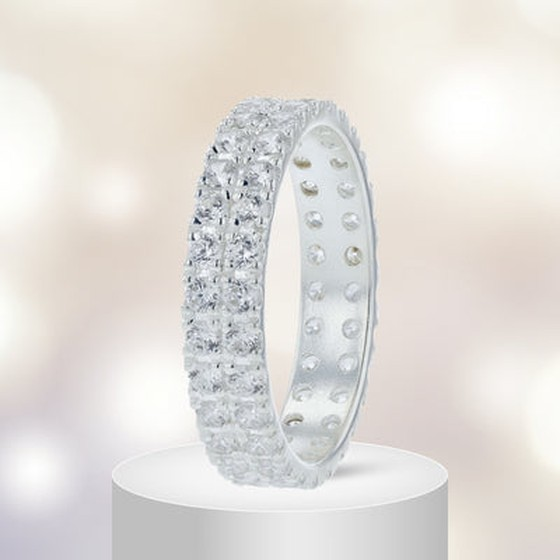
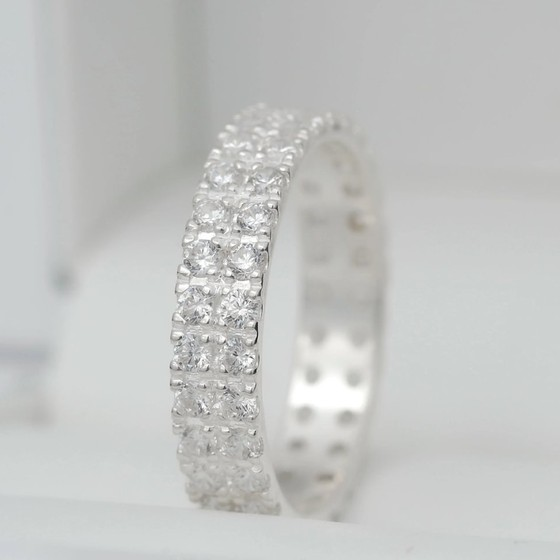
valise : vraies photos Lumina, violet et aloe retires

diff --git a/app/valise/route.ts b/app/valise/route.ts
@@ -180,10 +180,8 @@ h1 em{font-style:italic;color:var(--or)}
        {n:"white",c:"#F4F4F2",f:"/valise/aurheart-white.jpg"},
        {n:"Lumina",c:"#DCDCDC",f:"/valise/lumina.jpg"},
        {n:"Lumina émeraude",c:"#1E9B63",f:"/valise/lumina-emeraude.jpg"},
-       {n:"Lumina violet",c:"#8B6BB5",f:"/valise/lumina-violet.jpg"},
-       {n:"Lumina sakura",c:"#E7A6BE",f:"/valise/lumina-sakura.jpg"},
+       {n:"Lumina rose",c:"#E7A6BE",f:"/valise/lumina-rose.jpg"},
        {n:"Lumina kabricot",c:"#E0A87E",f:"/valise/lumina-kabricot.jpg"},
-       {n:"Lumina aloe",c:"#A9CFA0",f:"/valise/lumina-aloe.jpg"},
        {n:"Lumina orange impérial",c:"#E8862B",f:"/valise/lumina-imperial.jpg"}]},
    {t:"Le deux tiers Auraline ou Willow", court:"Auraline / Willow", px:"259.–",
     o:[{n:"rouge",c:"#9E1B2F",f:"/valise/auraline-rouge.jpg"},
